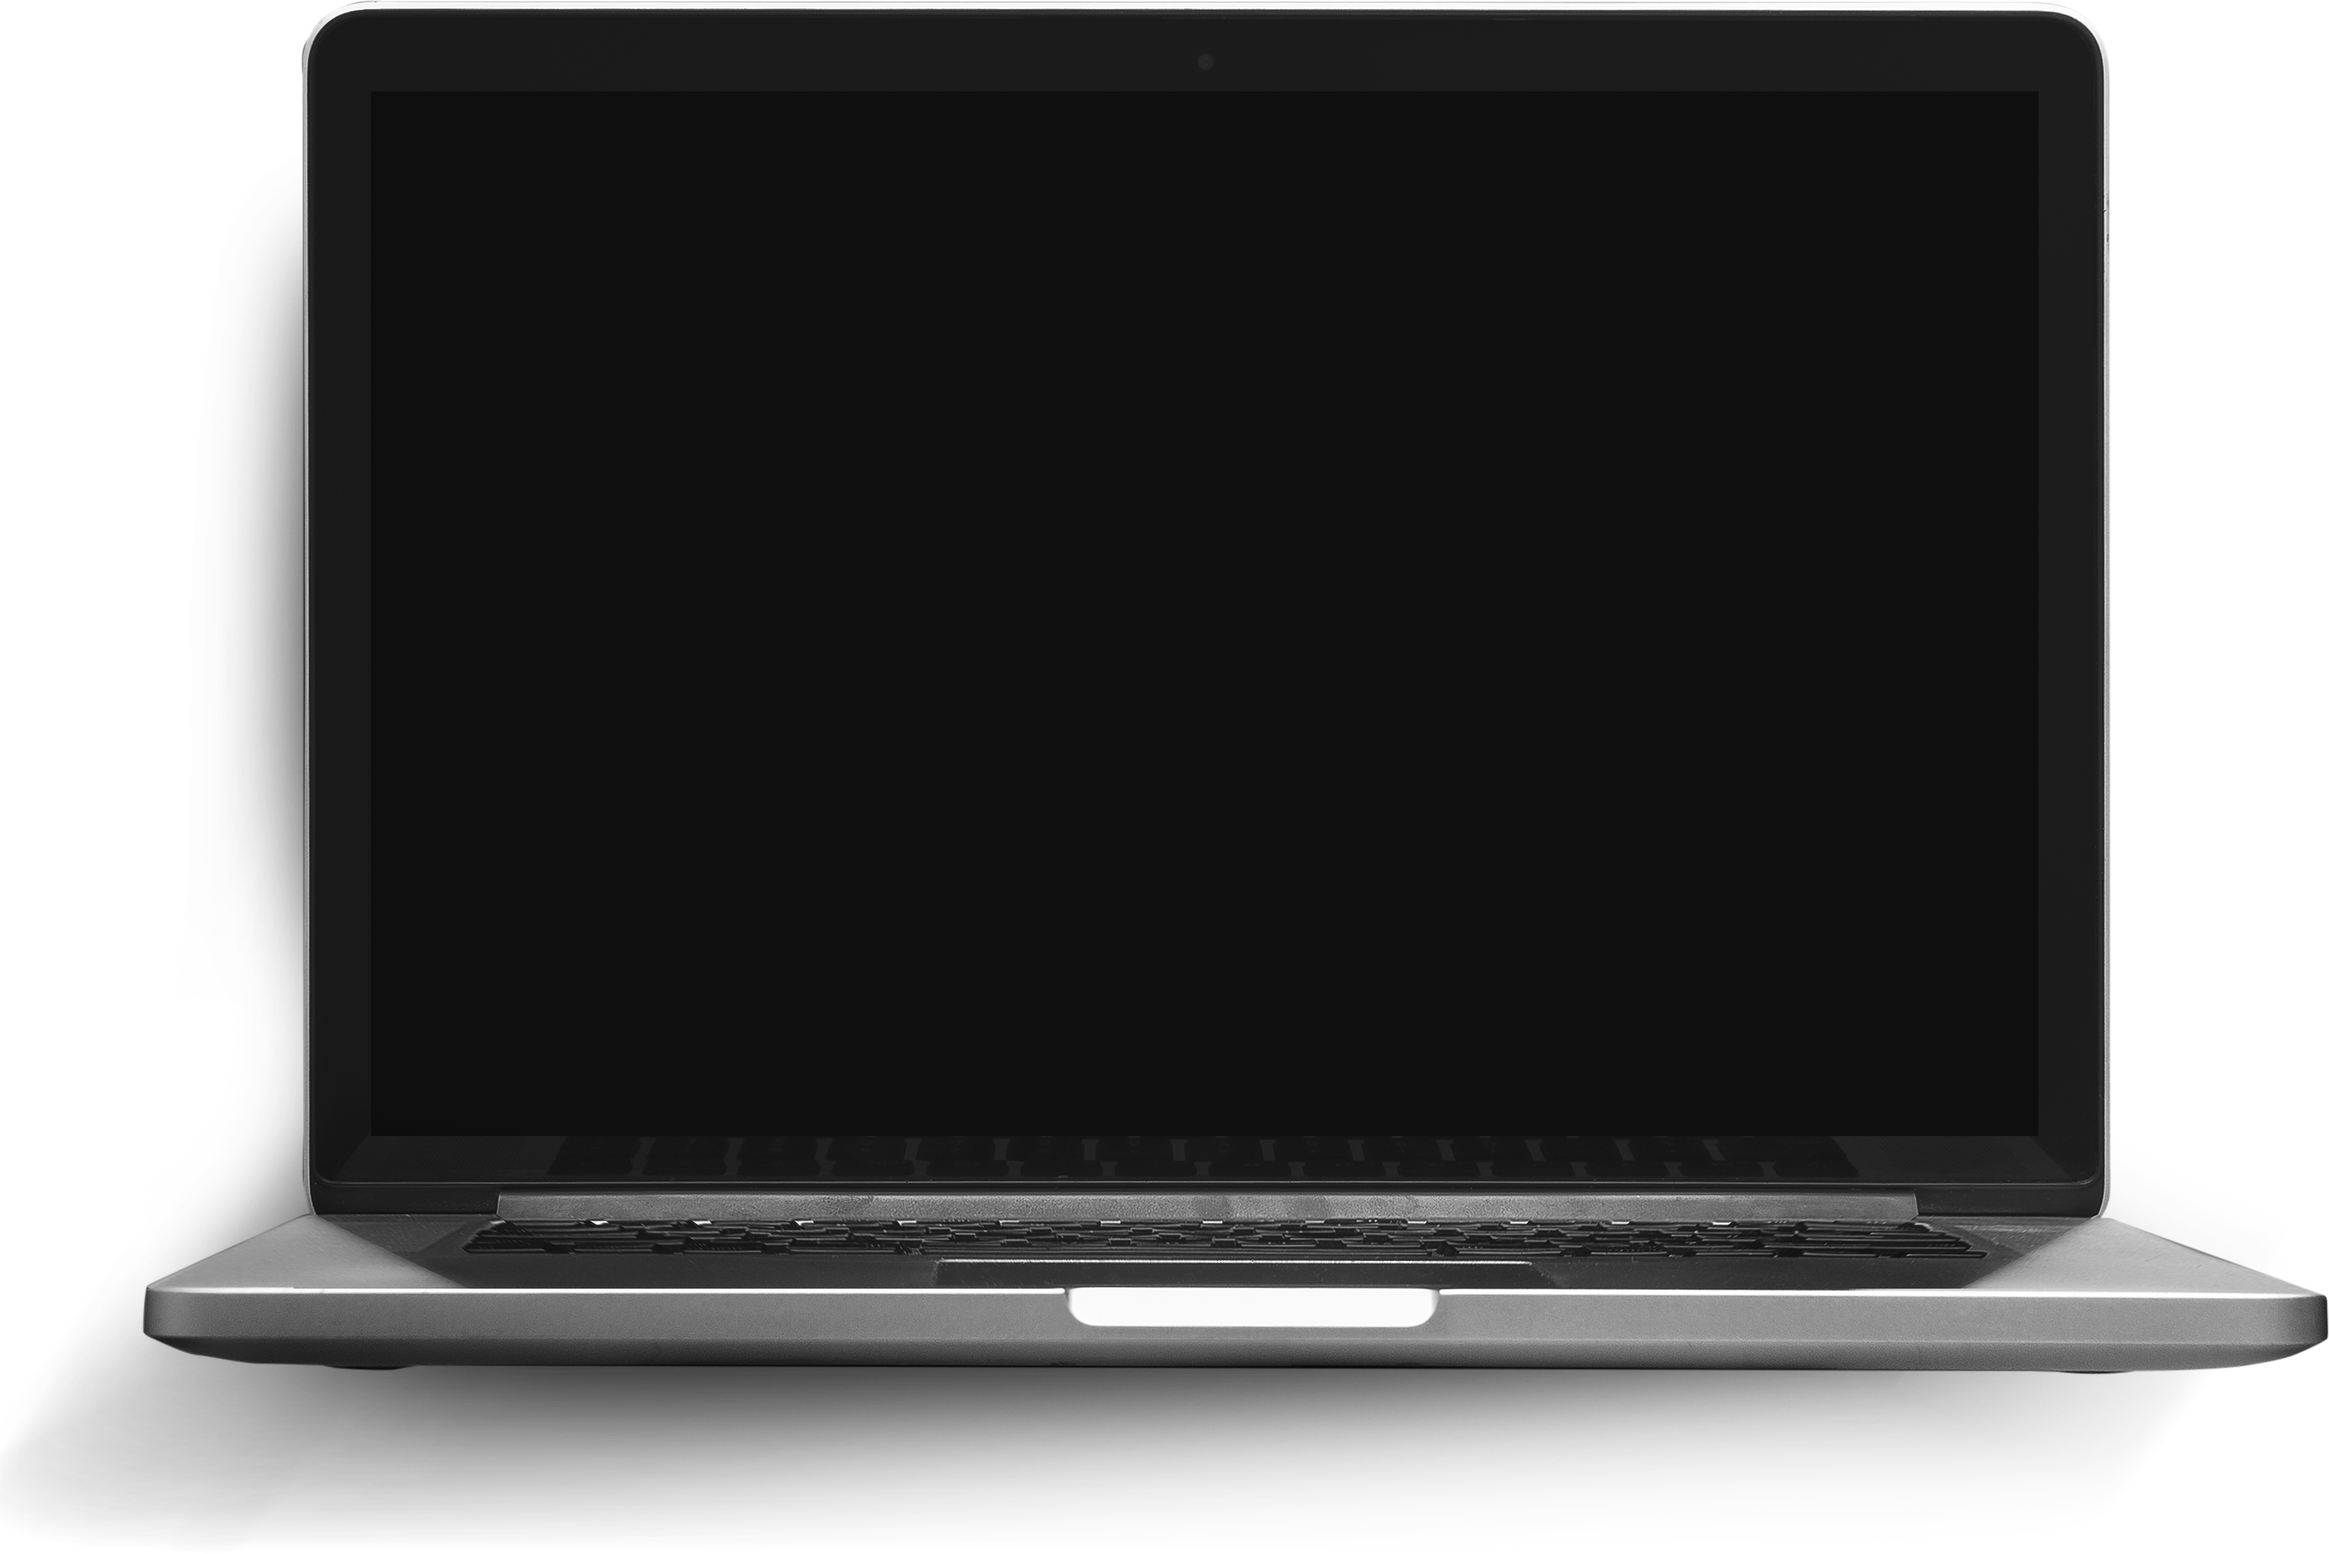
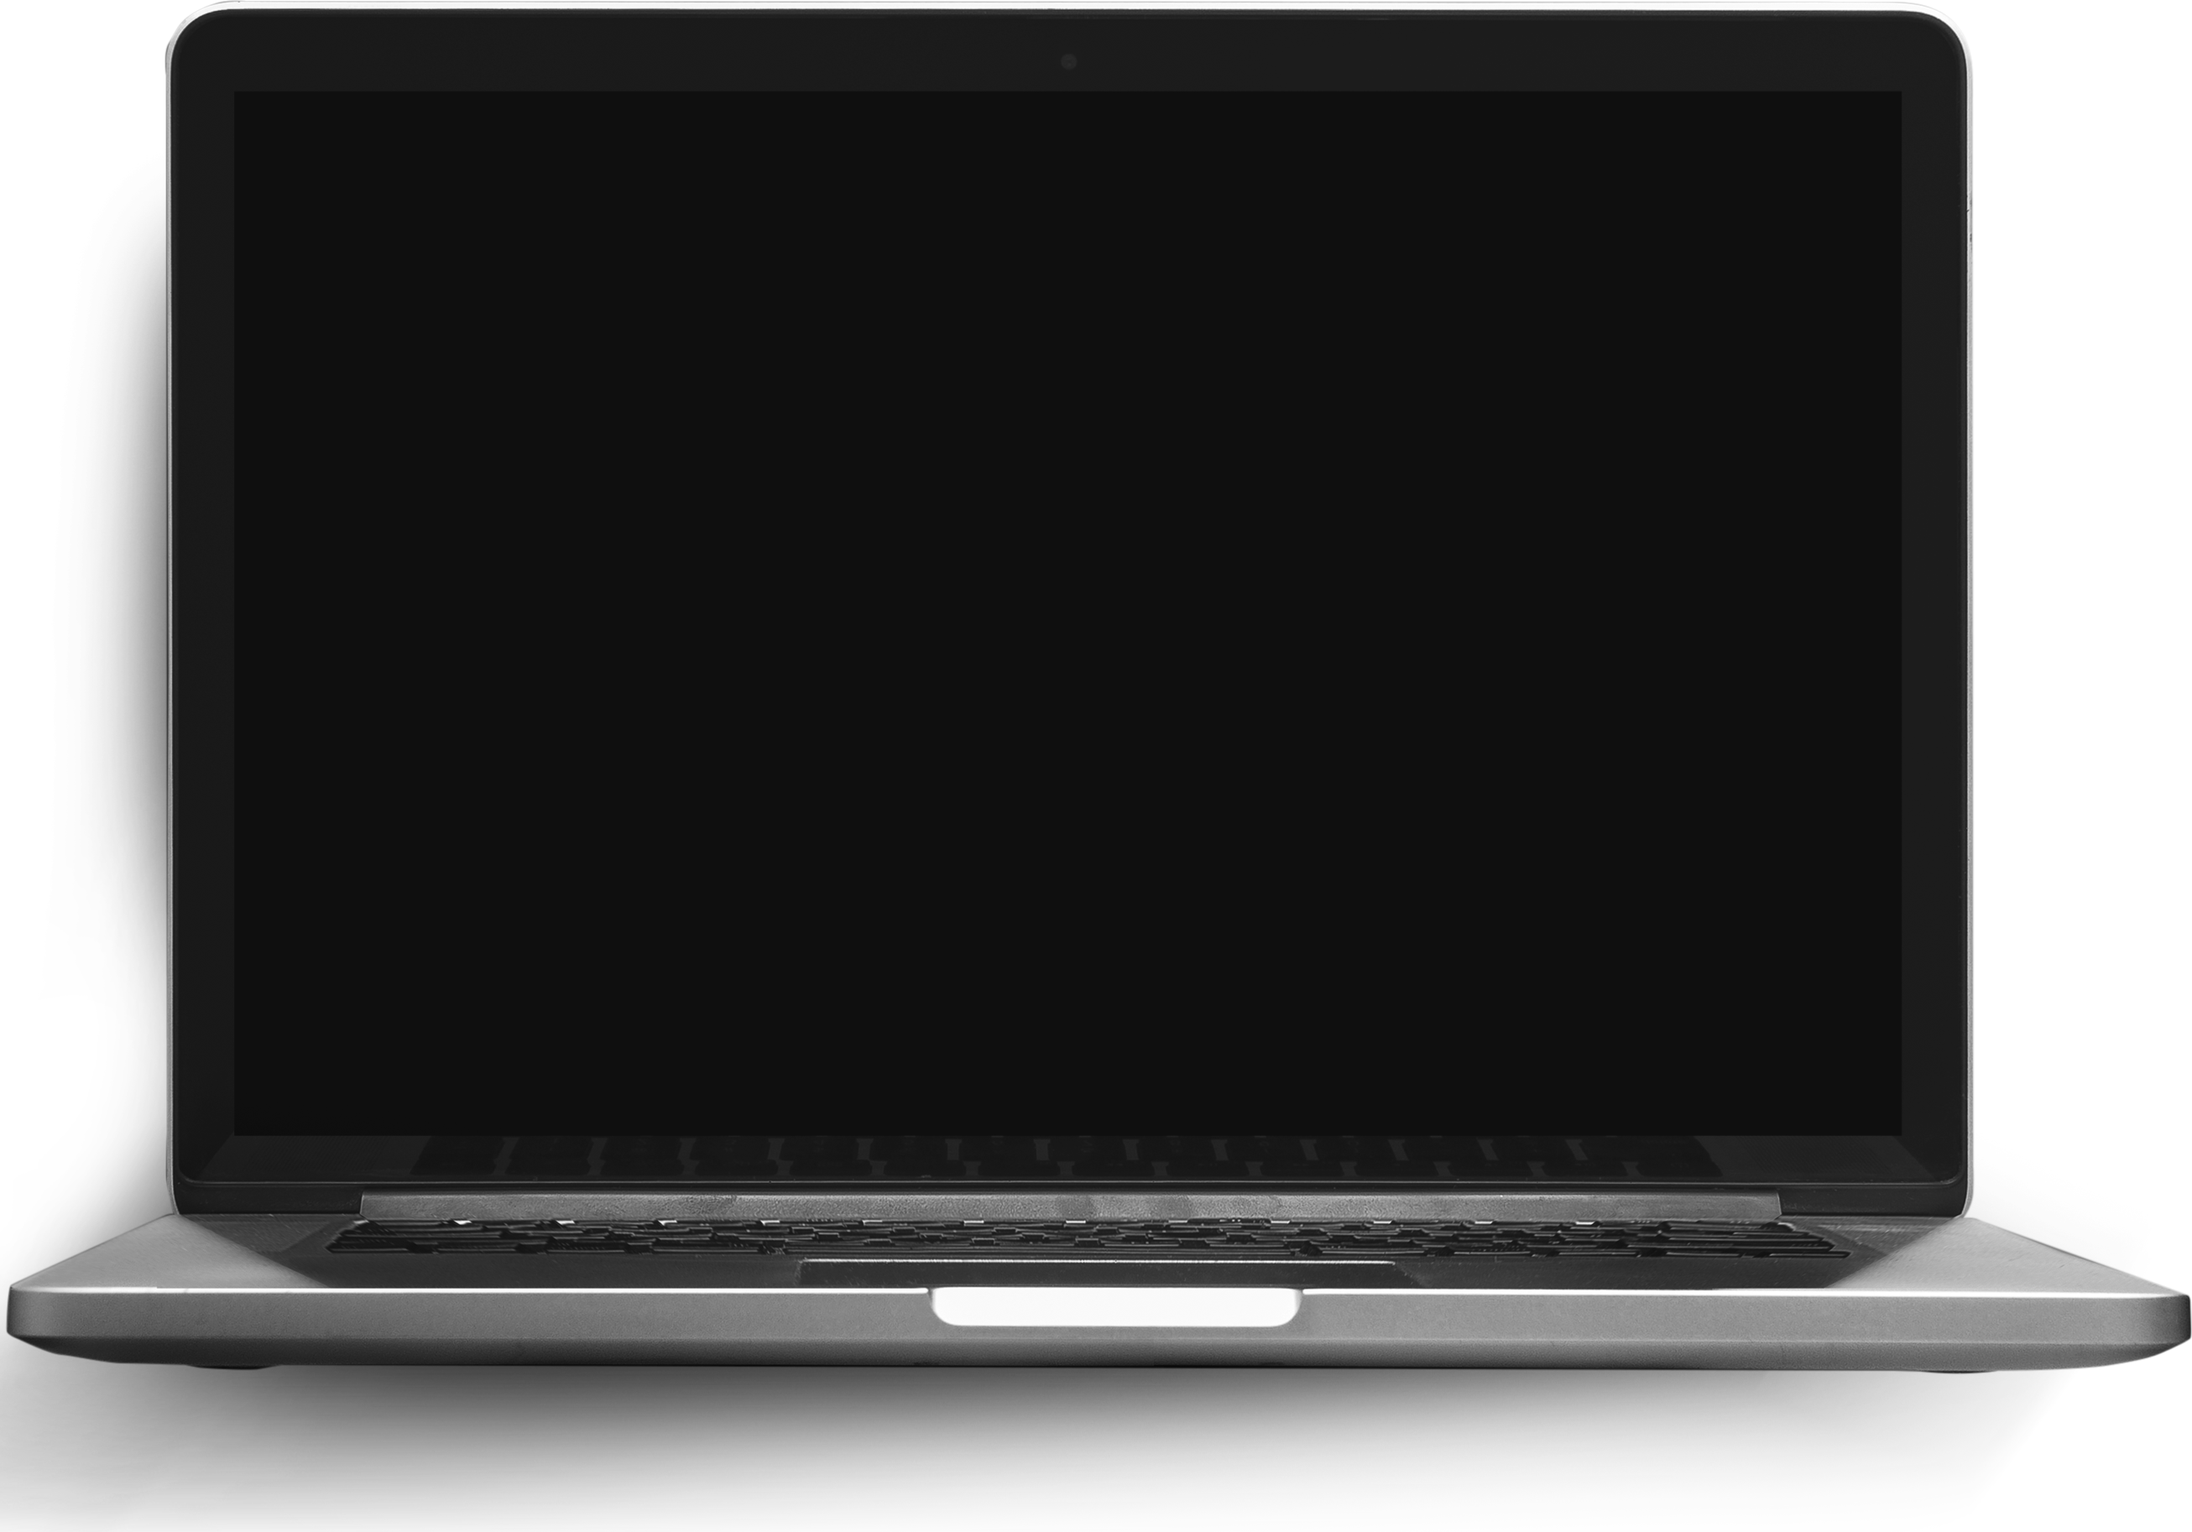
refeito

Changed region(s): [[0.0, 0.0, 1.0, 0.9989]]

diff --git a/src/app/home/Servicos/index.tsx b/src/app/home/Servicos/index.tsx
@@ -252,7 +252,7 @@ export default function Servicos({ className, ...rest }: ServiceProps) {
       </nav>
       <section className="infos relative mb-20 mt-8 flex max-h-[22rem] w-full">
         {/* TextArea com conteúdo */}
-        <aside className="left h-full w-[50%]">
+        <aside className="left relative -top-4 h-full w-[50%]">
           <div className="text-area relative flex min-h-[20rem] flex-col justify-between bg-[#20202010] px-5 pt-5 backdrop-blur-md">
             <div ref={textAreaRef} className="text space-y-4 overflow-hidden">
               <h3 className="text-xl font-semibold">
@@ -267,31 +267,35 @@ export default function Servicos({ className, ...rest }: ServiceProps) {
             </Link>
           </div>
         </aside>
-        {/* Imagem do Notebook */}
-        <Image
-          ref={macRef}
-          src={mac}
-          width={600}
-          height={500}
-          alt="MAC"
-          className="z-1 absolute -top-8 right-[.92rem] w-[48rem] scale-90"
-        />
 
-        <aside className="image-area relative top-[0.20rem] flex w-full scale-90 justify-center overflow-hidden">
-          {/* Imagem do conteúdo */}
-          <div
-            ref={contentRef}
-            className="border-red h-[98%] w-[35rem] overflow-hidden rounded-lg border-2"
-          >
-            <Image
-              src={state.selectedTab.image}
-              width={400}
-              height={400}
-              ref={imageRef}
-              alt="Nav Big Image"
-              className="z-30 h-full w-[35rem] rounded-sm"
-            />
-          </div>
+        <aside className="image-area relative top-[0.20rem] w-full">
+          <section className="screen relative flex h-full w-full justify-center">
+            {/* Imagem do conteúdo */}
+            <div
+              ref={contentRef}
+              className="border-red relative z-30 h-[19.3rem] w-max overflow-hidden rounded-lg border-2"
+            >
+              <Image
+                src={state.selectedTab.image}
+                width={400}
+                height={400}
+                ref={imageRef}
+                alt="Nav Big Image"
+                className="h-full w-[28rem] rounded-sm"
+              />
+            </div>
+            {/* Imagem do Notebook */}
+            <div className="mac z-5 absolute h-auto w-full">
+              <Image
+                ref={macRef}
+                src={mac}
+                width={600}
+                height={600}
+                alt="MAC"
+                className="absolute -top-6 left-24 h-[28rem] w-[37rem]"
+              />
+            </div>
+          </section>
         </aside>
       </section>
     </section>

diff --git a/src/app/home/page.tsx b/src/app/home/page.tsx
@@ -81,7 +81,7 @@ export default function Home() {
                 </div>
               </section>
               <section className="right-area relative -left-4 -top-[0.82rem] h-2/6 w-1/2 scale-90 p-2">
-                {/* <GameScene /> */}
+                <GameScene />
               </section>
             </section>
             <Servicos className="servicos" />

diff --git a/src/app/globals.scss b/src/app/globals.scss
@@ -52,3 +52,7 @@ ul {
   @include primary-gradient;
   border-radius: 10px;
 }
+
+.none {
+  display: none;
+}
